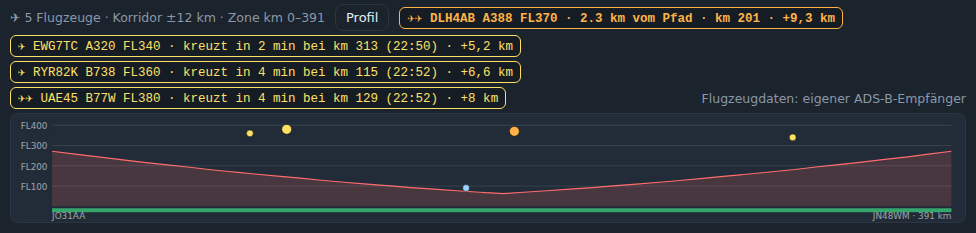
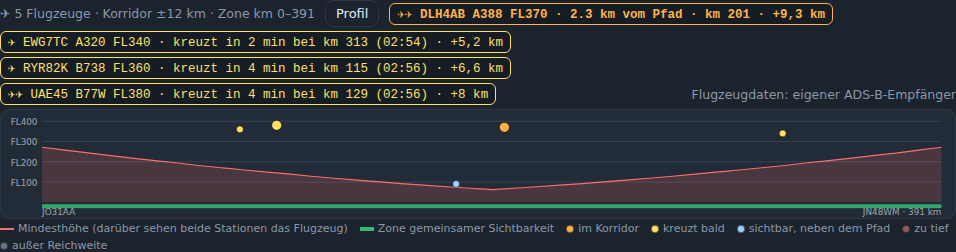
Wiki: Höhenprofil der Flugzeuge erklärt
- Was die Achsen, die rote Kurve, der grüne Balken und die Farben bedeuten, und warum die Punkte wandern
- Screenshot mit Legende

diff --git a/docs/wiki/Flugzeug-Scatter.md b/docs/wiki/Flugzeug-Scatter.md
@@ -15,7 +15,15 @@ Wie AirScout zeigt BeamLog Flugzeuge zwischen dir und dem Partner und bewertet, 
 - Liste unter der Karte: zuerst die Flugzeuge im Korridor (Abstand, Pfad-km, Reserve), dann die, die bald kreuzen (Minuten, km, UTC-Zeit, Reserve am Kreuzungspunkt). Hover auf einen Eintrag zeigt dieselben Details.
 ![Flugzeugliste und Höhenprofil](img/hoehenprofil.png)
 
-- **Profil**: Seitenansicht des Pfads wie in AirScout – rote Kurve = Mindesthöhe entlang des Pfads (Funkhorizont beider Stationen), grüner Balken = Zone bei Reiseflughöhe, Punkte = Flugzeuge in ihrer Höhe. Über die Punkte hovern zeigt die Details; der Knopf „Profil“ blendet die Ansicht aus.
+- **Profil**: Seitenansicht des Pfads wie in AirScout, mit Legende darunter:
+  - **waagerecht** = der Pfad von der eigenen Station (links) zur Gegenstation (rechts) in km, **senkrecht** = Flughöhe (FL100 ≈ 3 km … FL400 ≈ 12 km).
+  - **rote Kurve** = Mindesthöhe: erst darüber sehen beide Stationen ein Flugzeug an dieser Stelle (Funkhorizont). In der Mitte ist sie am niedrigsten.
+  - **grüner Balken** unten = Zone gemeinsamer Sichtbarkeit bei Reiseflughöhe – nur dort kann ein Flugzeug als Reflektor dienen.
+  - **Punkte** = Flugzeuge, eingezeichnet an der Stelle des Pfads, auf deren Höhe sie gerade sind (seitlicher Abstand zählt hier nicht), und in ihrer Flughöhe.
+    Sie **wandern nach links oder rechts**, weil sich ihre Position entlang des Pfads ändert, während sie fliegen (Aktualisierung alle 5 s).
+  - **Farben** wie auf der Karte: orange = im Korridor und beidseitig sichtbar (jetzt nutzbar), gelb = kreuzt bald den Pfad,
+    **hellblau = beidseitig sichtbar, aber seitlich neben dem Korridor** (meist kein brauchbarer Scatter), braun = zu tief, grau = außer Reichweite.
+    Große Punkte sind schwere Flugzeuge. Über die Punkte hovern zeigt die Details; der Knopf „Profil“ blendet die Ansicht aus.
 - Ohne Partner-Locator: Flugzeuge im Umkreis von 150 km um die eigene Station.
 
 Flugzeuge am Boden und unter 1500 m werden ignoriert.
